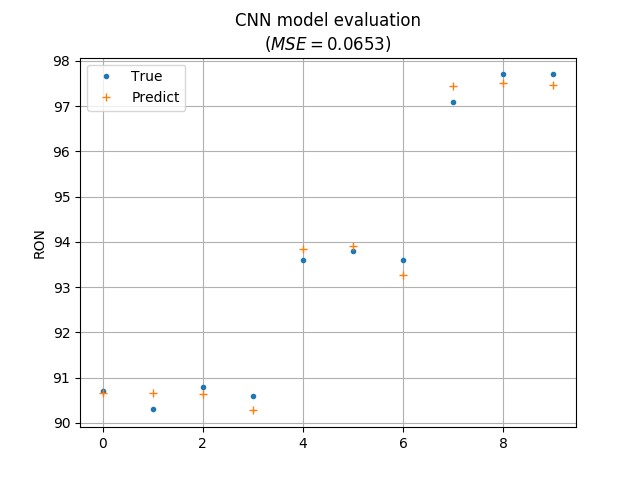
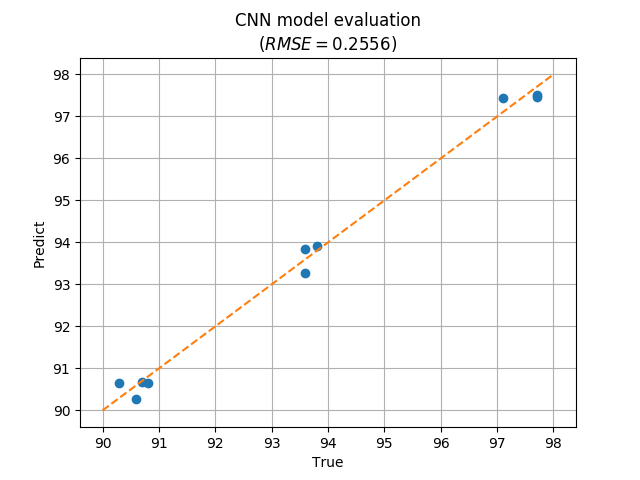
Change X/Y defination on plot, use RMSE instead of MSE.

diff --git a/svr-Ad-RON.py b/svr-Ad-RON.py
@@ -55,11 +55,11 @@ if __name__ == '__main__':
     mse = np.average((np.array(testY)*stdY - np.array(p_label)*stdY)**2)
     print('MSE = ', mse)
     clf()
-    plot(np.array(testY)*stdY+aveY, '.', label='True')
-    plot(np.array(p_label)*stdY+aveY, '*', label='Predict')
-    legend()
-    ylabel("RON")
-    title('SVM model evaluation\n'+r'($MSE = ' + '%.4lf' % mse + r'$)')
+    plot(np.array(testY)*stdY+aveY, np.array(p_label)*stdY+aveY, 'o')
+    plot([90, 98], [90, 98], '--')
+    xlabel('True')
+    ylabel("Predict")
+    title('SVM model evaluation\n'+r'($RMSE = ' + '%.4lf' % mse**0.5 + r'$)')
     grid()
     # show()
     savefig('img/svm_result.png')

diff --git a/cnn-Ad-RON.py b/cnn-Ad-RON.py
@@ -77,12 +77,12 @@ print('True:')
 print(testY)
 print('Predict:')
 print(result.flatten())
-plot(testY * stdY + aveY, '.', label='True')
-plot(result.flatten() * stdY + aveY, '+', label='Predict')
-legend()
+plot(testY * stdY + aveY, (result.flatten() * stdY + aveY), 'o')
+plot([90, 98], [90, 98], '--')
 grid()
-title('CNN model evaluation\n(' + r'$MSE = ' + '%.4lf' % mse + r'$)')
-ylabel('RON')
+title('CNN model evaluation\n(' + r'$RMSE = ' + '%.4lf' % mse ** 0.5 + r'$)')
+ylabel('Predict')
+xlabel('True')
 # show()
 savefig('img/cnn_result.png')
 model.save('cnn-model.h5')
